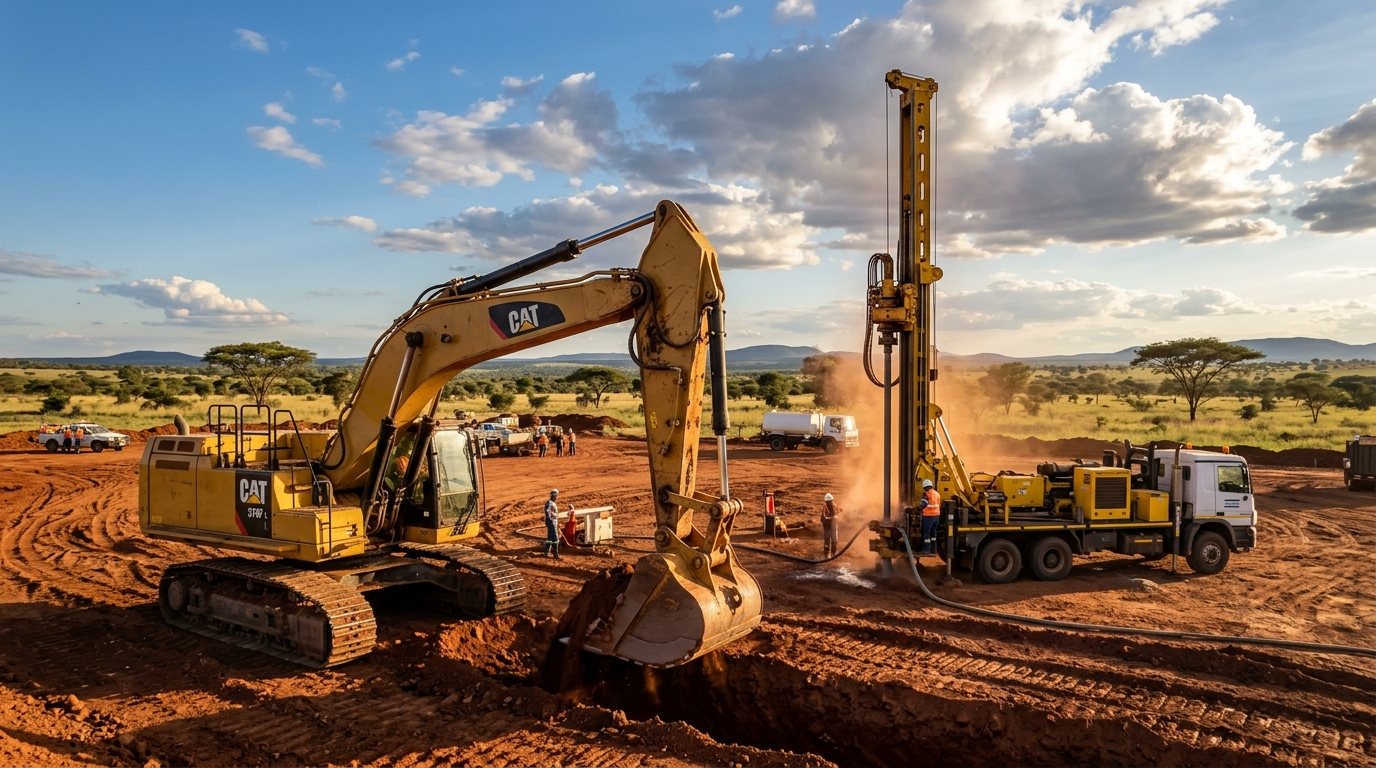
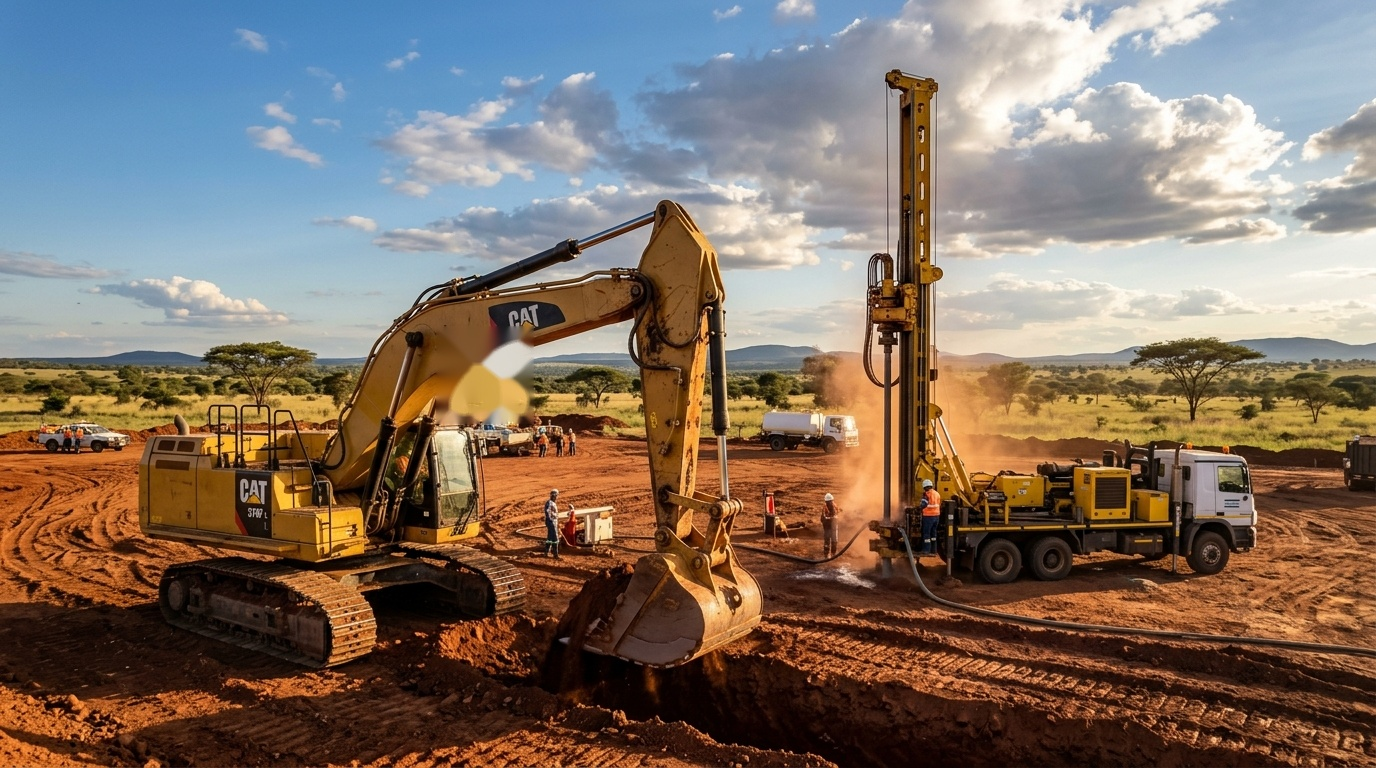
Fix hero section layout: eliminate social bar overlap, bring CTAs above the fold, and remove CAT brand text from hero image

Changed region(s): [[0.3125, 0.4062, 0.4062, 0.5625]]

diff --git a/components/ui/HeroSection.tsx b/components/ui/HeroSection.tsx
@@ -7,17 +7,16 @@ import { BUSINESS_INFO } from '@/lib/constants';
 import {
   Phone,
   ArrowRight,
-  Compass,
   Droplets,
   Tractor,
-  ShieldCheck,
   MapPin,
   CheckCircle2,
+  MessageCircle,
 } from 'lucide-react';
 
 export function HeroSection() {
   return (
-    <section className="relative min-h-[92vh] sm:min-h-screen flex items-center justify-center pt-28 pb-16 lg:pt-32 lg:pb-20 overflow-hidden bg-white">
+    <section className="relative min-h-[85vh] lg:min-h-[88vh] flex items-center justify-center pt-24 pb-12 sm:pt-28 sm:pb-14 lg:pt-28 lg:pb-16 overflow-hidden bg-white">
       {/* Background Cinematic Industrial Banner */}
       <div className="absolute inset-0 z-0">
         <Image
@@ -28,62 +27,44 @@ export function HeroSection() {
           quality={95}
           className="object-cover object-center"
         />
-        {/* Modern clean gradients: soft light gradient on left/center for maximum text readability */}
-        <div className="absolute inset-0 bg-gradient-to-r from-white/95 via-white/85 to-white/40 lg:via-white/75 lg:to-transparent" />
+        {/* Soft, clean gradient shield on the left half to guarantee 100% contrast & legibility */}
+        <div className="absolute inset-0 bg-gradient-to-r from-white via-white/95 to-white/30 lg:from-white lg:via-white/90 lg:to-transparent" />
         <div className="absolute inset-0 bg-gradient-to-t from-white via-transparent to-white/40" />
       </div>
 
-      <div className="relative z-10 max-w-7xl mx-auto px-4 sm:px-6 lg:px-8 w-full">
-        <div className="max-w-2xl lg:max-w-3xl space-y-6 text-left">
+      {/* Hero Content Container with left clearance for the floating social bar */}
+      <div className="relative z-10 max-w-7xl mx-auto w-full px-4 sm:px-6 md:pl-24 md:pr-8 lg:pl-28 lg:pr-10">
+        <div className="max-w-xl lg:max-w-2xl space-y-4 text-left">
           
           {/* Nationwide Mobilization Badge */}
           <div className="flex flex-wrap items-center gap-2">
-            <div className="inline-flex items-center gap-2 px-3.5 py-1.5 rounded-full text-xs font-mono font-bold bg-white/95 border border-slate-200/90 text-slate-800 shadow-xs">
+            <div className="inline-flex items-center gap-2 px-3 py-1 rounded-full text-[11px] sm:text-xs font-mono font-bold bg-white/95 border border-slate-200 text-slate-800 shadow-xs">
               <MapPin className="w-3.5 h-3.5 text-amber-500" />
               <span>Headquartered in Lusaka • Serving All Over Zambia</span>
             </div>
-            <div className="inline-flex items-center gap-1.5 px-3 py-1.5 rounded-full text-xs font-mono font-bold text-emerald-800 bg-emerald-50 border border-emerald-200/80 shadow-xs">
+            <div className="inline-flex items-center gap-1.5 px-3 py-1 rounded-full text-[11px] sm:text-xs font-mono font-bold text-emerald-800 bg-emerald-50 border border-emerald-200 shadow-xs">
               <span className="w-2 h-2 rounded-full bg-emerald-500 animate-pulse" />
               <span>Site-Ready Plant & Rigs</span>
             </div>
           </div>
 
           {/* Main Headline */}
-          <div className="space-y-3">
-            <h1 className="font-heading text-4xl sm:text-6xl lg:text-7xl font-black uppercase tracking-tight text-slate-950 leading-[1.02]">
+          <div className="space-y-2">
+            <h1 className="font-heading text-3xl sm:text-5xl lg:text-6xl font-black uppercase tracking-tight text-slate-950 leading-[1.05]">
               We Drill. <br />
               <span className="text-amber-500">We Dig.</span> <br />
               We Deliver.
             </h1>
-            <p className="text-base sm:text-lg text-slate-700 font-medium max-w-2xl leading-relaxed">
-              Commercial borehole drilling for farms and mining, soil sample collection drilling for exploration, and certified heavy earth-moving plant hire across all provinces of Zambia.
+            <p className="text-sm sm:text-base text-slate-700 font-medium max-w-xl leading-relaxed">
+              Commercial borehole drilling for farms and mining, soil sample collection drilling for exploration, and certified heavy earth-moving equipment hire across all provinces of Zambia.
             </p>
           </div>
 
-          {/* Industrial Highlights Grid */}
-          <div className="grid grid-cols-1 sm:grid-cols-2 gap-3 pt-2 text-xs sm:text-sm text-slate-800">
-            <div className="flex items-start gap-2.5 p-3 rounded-2xl bg-white/90 backdrop-blur-md border border-slate-200/80 shadow-sm">
-              <Droplets className="w-5 h-5 text-sky-600 shrink-0 mt-0.5" />
-              <div>
-                <span className="font-bold text-slate-900 block">Commercial Boreholes & Tanks</span>
-                <span className="text-xs text-slate-600">Farm irrigation, mining dewatering, tank stands & solar pumps</span>
-              </div>
-            </div>
-
-            <div className="flex items-start gap-2.5 p-3 rounded-2xl bg-white/90 backdrop-blur-md border border-slate-200/80 shadow-sm">
-              <Tractor className="w-5 h-5 text-amber-500 shrink-0 mt-0.5" />
-              <div>
-                <span className="font-bold text-slate-900 block">Heavy Plant & Tippers for Hire</span>
-                <span className="text-xs text-slate-600">Excavators (21T–38T), 30T/40T tippers & dozers with operators</span>
-              </div>
-            </div>
-          </div>
-
-          {/* Call To Actions */}
-          <div className="flex flex-col sm:flex-row items-stretch sm:items-center gap-3.5 pt-3">
+          {/* Call To Actions - Positioned prominently above the fold */}
+          <div className="flex flex-wrap items-center gap-3 pt-1">
             <Link
               href="/contact"
-              className="group px-8 py-4 rounded-xl font-heading font-black text-xs uppercase tracking-wider text-slate-950 bg-gradient-to-r from-amber-400 via-amber-500 to-amber-400 hover:from-amber-300 hover:to-amber-400 shadow-[0_4px_20px_rgba(245,158,11,0.4)] transition-all flex items-center justify-center gap-2.5 active:scale-95"
+              className="group px-6 sm:px-7 py-3.5 rounded-xl font-heading font-black text-xs uppercase tracking-wider text-slate-950 bg-gradient-to-r from-amber-400 via-amber-500 to-amber-400 hover:from-amber-300 hover:to-amber-400 shadow-[0_4px_20px_rgba(245,158,11,0.35)] transition-all flex items-center justify-center gap-2 active:scale-95"
             >
               <span>Get a Free Quote</span>
               <ArrowRight className="w-4 h-4 group-hover:translate-x-1 transition-transform" />
@@ -91,35 +72,55 @@ export function HeroSection() {
 
             <a
               href={BUSINESS_INFO.telLink}
-              className="px-7 py-4 rounded-xl font-heading font-bold text-xs uppercase tracking-wider text-slate-900 bg-white hover:bg-slate-50 border border-slate-300 shadow-sm transition-all flex items-center justify-center gap-2.5 active:scale-95"
+              className="px-5 sm:px-6 py-3.5 rounded-xl font-heading font-bold text-xs uppercase tracking-wider text-slate-900 bg-white hover:bg-slate-50 border border-slate-300 shadow-sm transition-all flex items-center justify-center gap-2 active:scale-95"
             >
               <Phone className="w-4 h-4 text-amber-500" />
-              <span>Call: {BUSINESS_INFO.phone}</span>
+              <span>Call Now</span>
             </a>
 
             <a
               href={BUSINESS_INFO.whatsappLink}
               target="_blank"
               rel="noopener noreferrer"
-              className="px-6 py-4 rounded-xl font-heading font-bold text-xs uppercase tracking-wider text-emerald-800 bg-emerald-50 hover:bg-emerald-100 border border-emerald-300/80 shadow-sm transition-all flex items-center justify-center gap-2 active:scale-95"
+              className="px-5 sm:px-6 py-3.5 rounded-xl font-heading font-bold text-xs uppercase tracking-wider text-emerald-800 bg-emerald-50 hover:bg-emerald-100 border border-emerald-300/80 shadow-sm transition-all flex items-center justify-center gap-2 active:scale-95"
             >
-              <span>WhatsApp Direct</span>
+              <MessageCircle className="w-4 h-4 text-emerald-600" />
+              <span>WhatsApp</span>
             </a>
           </div>
 
+          {/* Industrial Highlights Grid - Sleek, compact and non-intrusive */}
+          <div className="grid grid-cols-1 sm:grid-cols-2 gap-2.5 pt-2 max-w-xl">
+            <div className="flex items-center gap-2.5 px-3.5 py-2 rounded-xl bg-white/90 backdrop-blur-md border border-slate-200/90 shadow-xs">
+              <Droplets className="w-4 h-4 text-sky-600 shrink-0" />
+              <div className="text-xs">
+                <span className="font-bold text-slate-900 block">Commercial Boreholes & Tanks</span>
+                <span className="text-[11px] text-slate-500">Farms, mining dewatering & solar pumps</span>
+              </div>
+            </div>
+
+            <div className="flex items-center gap-2.5 px-3.5 py-2 rounded-xl bg-white/90 backdrop-blur-md border border-slate-200/90 shadow-xs">
+              <Tractor className="w-4 h-4 text-amber-500 shrink-0" />
+              <div className="text-xs">
+                <span className="font-bold text-slate-900 block">Heavy Plant & Tippers for Hire</span>
+                <span className="text-[11px] text-slate-500">Excavators (21T–38T), 30T/40T tippers</span>
+              </div>
+            </div>
+          </div>
+
           {/* Quick Trust Bar */}
-          <div className="pt-2 flex flex-wrap items-center gap-y-2 gap-x-5 text-xs text-slate-600 font-medium">
+          <div className="pt-1 flex flex-wrap items-center gap-x-4 gap-y-1 text-xs text-slate-600 font-medium">
             <div className="flex items-center gap-1.5">
-              <CheckCircle2 className="w-4 h-4 text-emerald-600" />
+              <CheckCircle2 className="w-3.5 h-3.5 text-emerald-600" />
               <span>Certified Operators Included</span>
             </div>
             <div className="flex items-center gap-1.5">
-              <CheckCircle2 className="w-4 h-4 text-emerald-600" />
-              <span>Exploratory Soil Core Drilling</span>
+              <CheckCircle2 className="w-3.5 h-3.5 text-emerald-600" />
+              <span>Mining Soil Sampling</span>
             </div>
             <div className="flex items-center gap-1.5">
-              <CheckCircle2 className="w-4 h-4 text-emerald-600" />
-              <span>Prompt Nationwide Lowbed Transport</span>
+              <CheckCircle2 className="w-3.5 h-3.5 text-emerald-600" />
+              <span>Nationwide Lowbed Dispatch</span>
             </div>
           </div>
 
